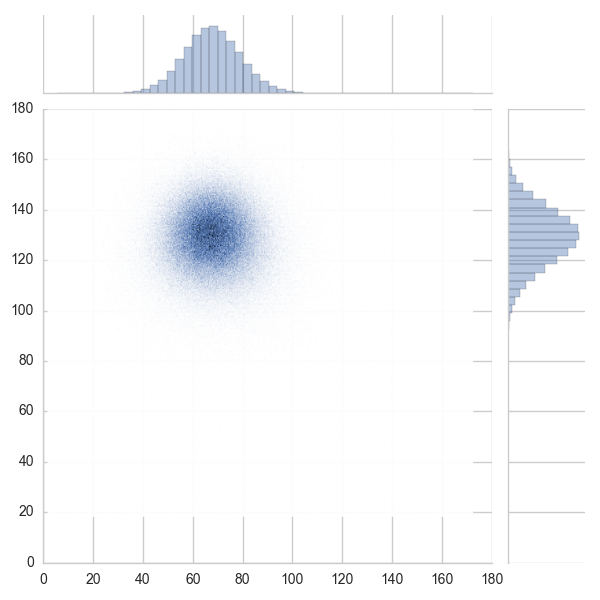
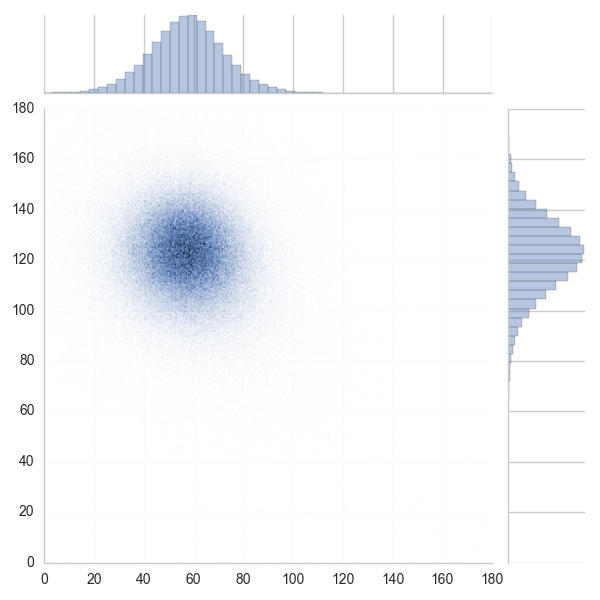
pics recalculated

diff --git a/commons.py b/commons.py
@@ -27,25 +27,38 @@ rB = sp.Symbol('rB')
 
 y_theo = np.array([x_plus, y_plus, x_minus, y_minus]).T
 
-y_corr = np.mat([[1.000, 0.093, 0.000,-0.000],
+summer2015 = {'y_corr': np.mat([[1.000, 0.093, 0.000,-0.000],
                       [0.093, 1.000,-0.000, 0.000],
                       [0.000,-0.000, 1.000,-0.132],
-                      [-0.000,0.000,-0.132, 1.000]])
-y_corr_inv = np.linalg.inv(y_corr)
+                      [-0.000,0.000,-0.132, 1.000]]),
+              'y_exp': np.array([-0.085, -0.027, 0.044, 0.090]),
+              'y_var': np.array([(0.023**2 + 0.004**2), (0.023**2 + 0.010**2), (0.023**2 + 0.005**2), (0.026**2 + 0.014**2)])}
 
-y_exp = np.array([-0.085, -0.027, 0.044, 0.090])
-y_var = np.array([(0.023**2 + 0.004**2), (0.023**2 + 0.010**2), (0.023**2 + 0.005**2), (0.026**2 + 0.014**2)])
-y_std = np.sqrt(y_var)
+summer2015['y_corr_inv'] = np.linalg.inv(summer2015["y_corr"])
+summer2015['y_std'] = np.sqrt(summer2015["y_var"])
+summer2015['y_covar'] = np.mat(np.diag(summer2015['y_std']))*summer2015["y_corr"]*np.mat(np.diag(summer2015['y_std']))
+summer2015['y_covar_inv'] = np.linalg.inv(summer2015['y_covar'])
 
-y_covar = np.mat(np.diag(y_std))*y_corr*np.mat(np.diag(y_std))
-y_covar_inv = np.linalg.inv(y_covar)
+lumi3fb = {'y_corr': np.mat([
+    [ 1.000, 0.106,-0.136,-0.186],
+    [ 0.106, 1.000,-0.031,-0.074],
+    [-0.136,-0.031, 1.000,-0.053],
+    [-0.186,-0.074,-0.053, 1.000]]),
+              'y_exp': np.array([-8.85e-2, -0.12e-2, 3.46e-2, 7.91e-2]),
+              'y_var': np.array([(0.024**2 + 0.010**2 + 0.004**2),
+                                 (0.025**2 + 0.004**2 + 0.010**2),
+                                 (0.025**2 + 0.010**2 + 0.005**2),
+                                 (0.029**2 + 0.005**2 + 0.014**2)])}
+
+lumi3fb['y_corr_inv'] = np.linalg.inv(lumi3fb["y_corr"])
+lumi3fb['y_std'] = np.sqrt(lumi3fb["y_var"])
+lumi3fb['y_covar'] = np.mat(np.diag(lumi3fb['y_std']))*lumi3fb["y_corr"]*np.mat(np.diag(lumi3fb['y_std']))
+lumi3fb['y_covar_inv'] = np.linalg.inv(lumi3fb['y_covar'])
 
 y_theo_sym = sp.Matrix([rB*sp.cos((deltaB + gamma)*(math.pi/180)),
                         rB*sp.sin((deltaB + gamma)*(math.pi/180)),
                         rB*sp.cos((deltaB - gamma)*(math.pi/180)),
                         rB*sp.sin((deltaB - gamma)*(math.pi/180))])
-chi2_sym = (y_theo_sym - y_exp).T*y_covar_inv*(y_theo_sym - y_exp)
-chi2 = lambda args: lambdify(ys, chi2_sym, 'numpy')(*args)[0, 0]
 ys = sp.Matrix([gamma, deltaB, rB])
 
 bounds = {1: ((0,180), (0,180), (0.0001, 0.5)),

diff --git a/ggsz_native.py b/ggsz_native.py
@@ -15,6 +15,7 @@ matplotlib.rcParams.update({'font.size': 10})
 N = 1000000 # Sample size (N/10 used for burning out)
 number_of_bins = 90
 load_last_model = False
+experiment = commons.lumi3fb
 
 # Output fuctions
 def plot(trace, var_name, fname):
@@ -89,7 +90,7 @@ if __name__ == "__main__":
         #Averaged experiments
         @stochastic
         def vars(x_plus_gen=x_plus_gen, y_plus_gen=y_plus_gen, x_minus_gen=x_minus_gen, y_minus_gen=y_minus_gen, value=0):
-            return pymc.mv_normal_like([x_plus_gen, y_plus_gen, x_minus_gen, y_minus_gen], commons.y_exp, commons.y_covar_inv)
+            return pymc.mv_normal_like([x_plus_gen, y_plus_gen, x_minus_gen, y_minus_gen], experiment['y_exp'], experiment['y_covar_inv'])
 
         # Model
         if load_last_model:

diff --git a/chi2opt.py b/chi2opt.py
@@ -4,6 +4,9 @@ import scipy.optimize as opt
 from commons import *
 from sympy.utilities.lambdify import lambdify, implemented_function
 
+chi2_sym = (y_theo_sym - summer2015['y_exp']).T*summer2015['y_covar_inv']*(y_theo_sym - summer2015['y_exp'])
+chi2 = lambda args: lambdify(ys, chi2_sym, 'numpy')(*args)[0, 0]
+
 #Symbolic solutions
 
 #print("Symbolic: ")
